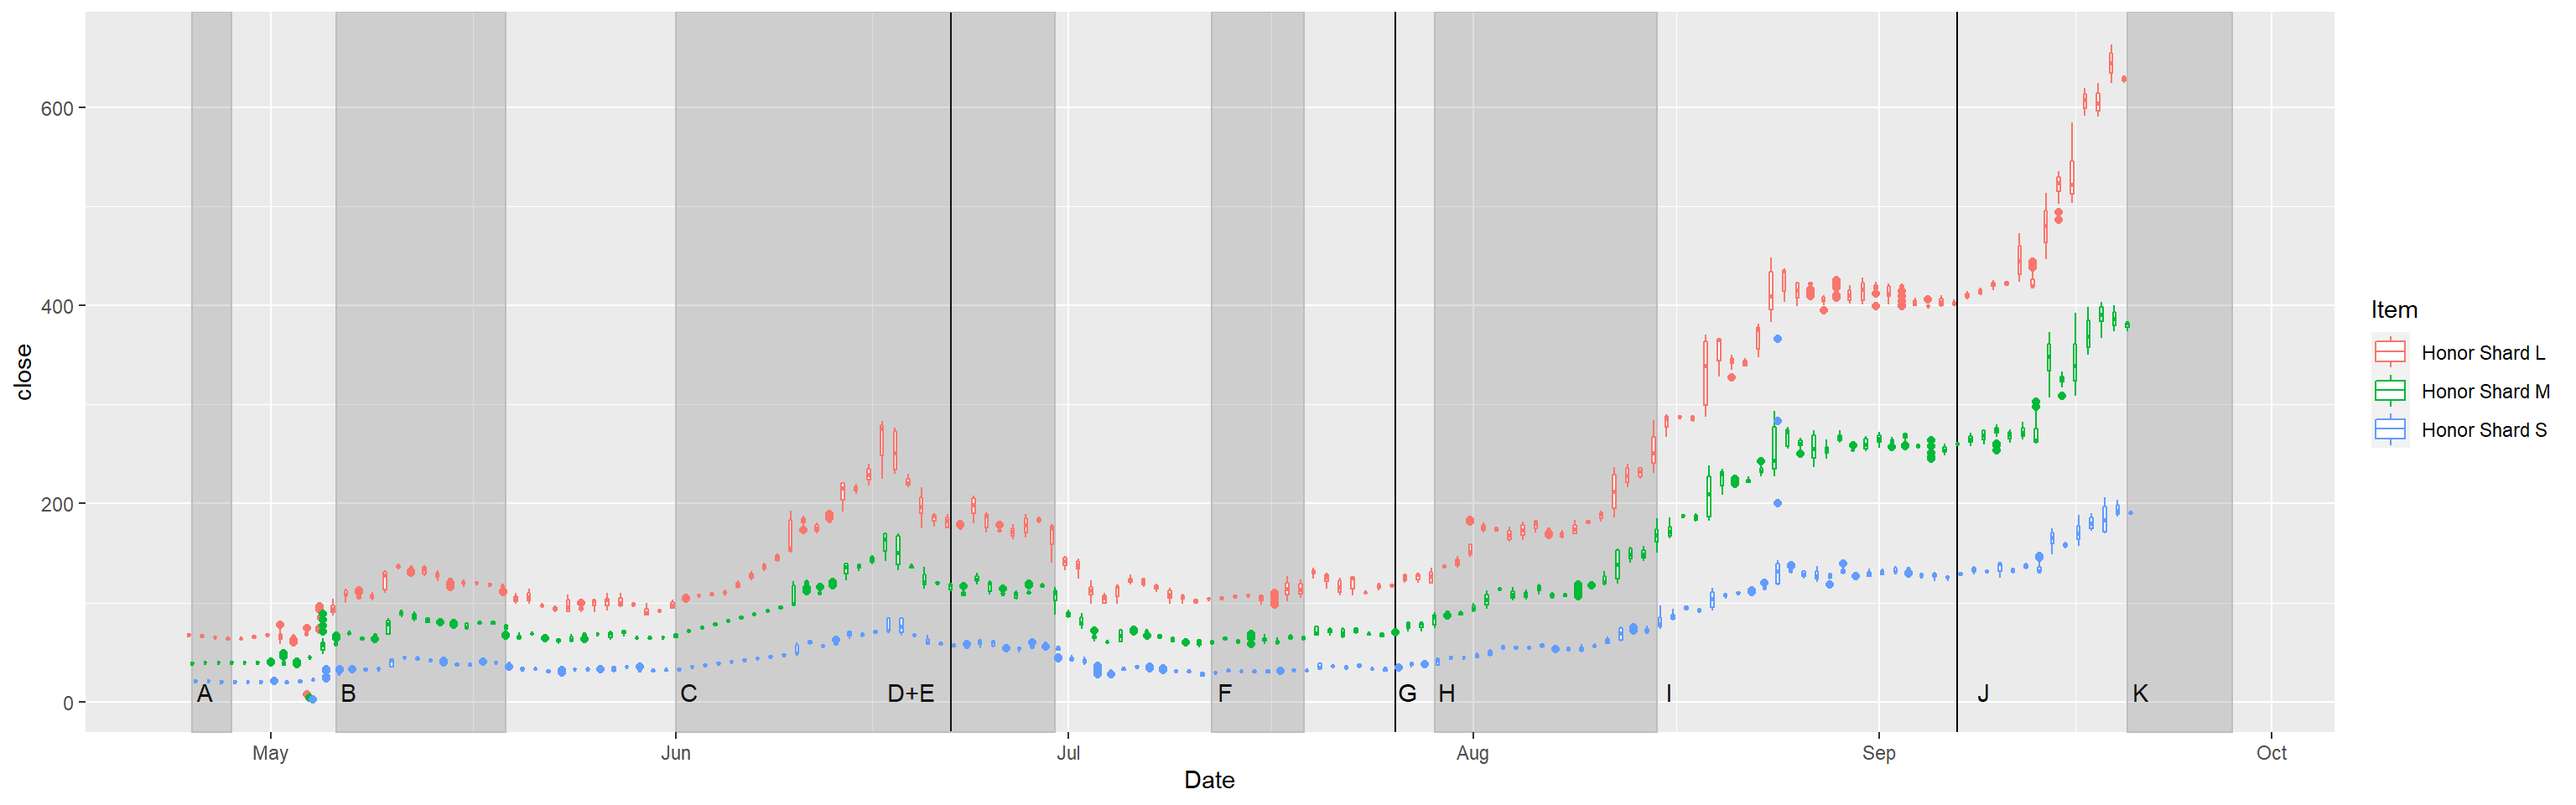
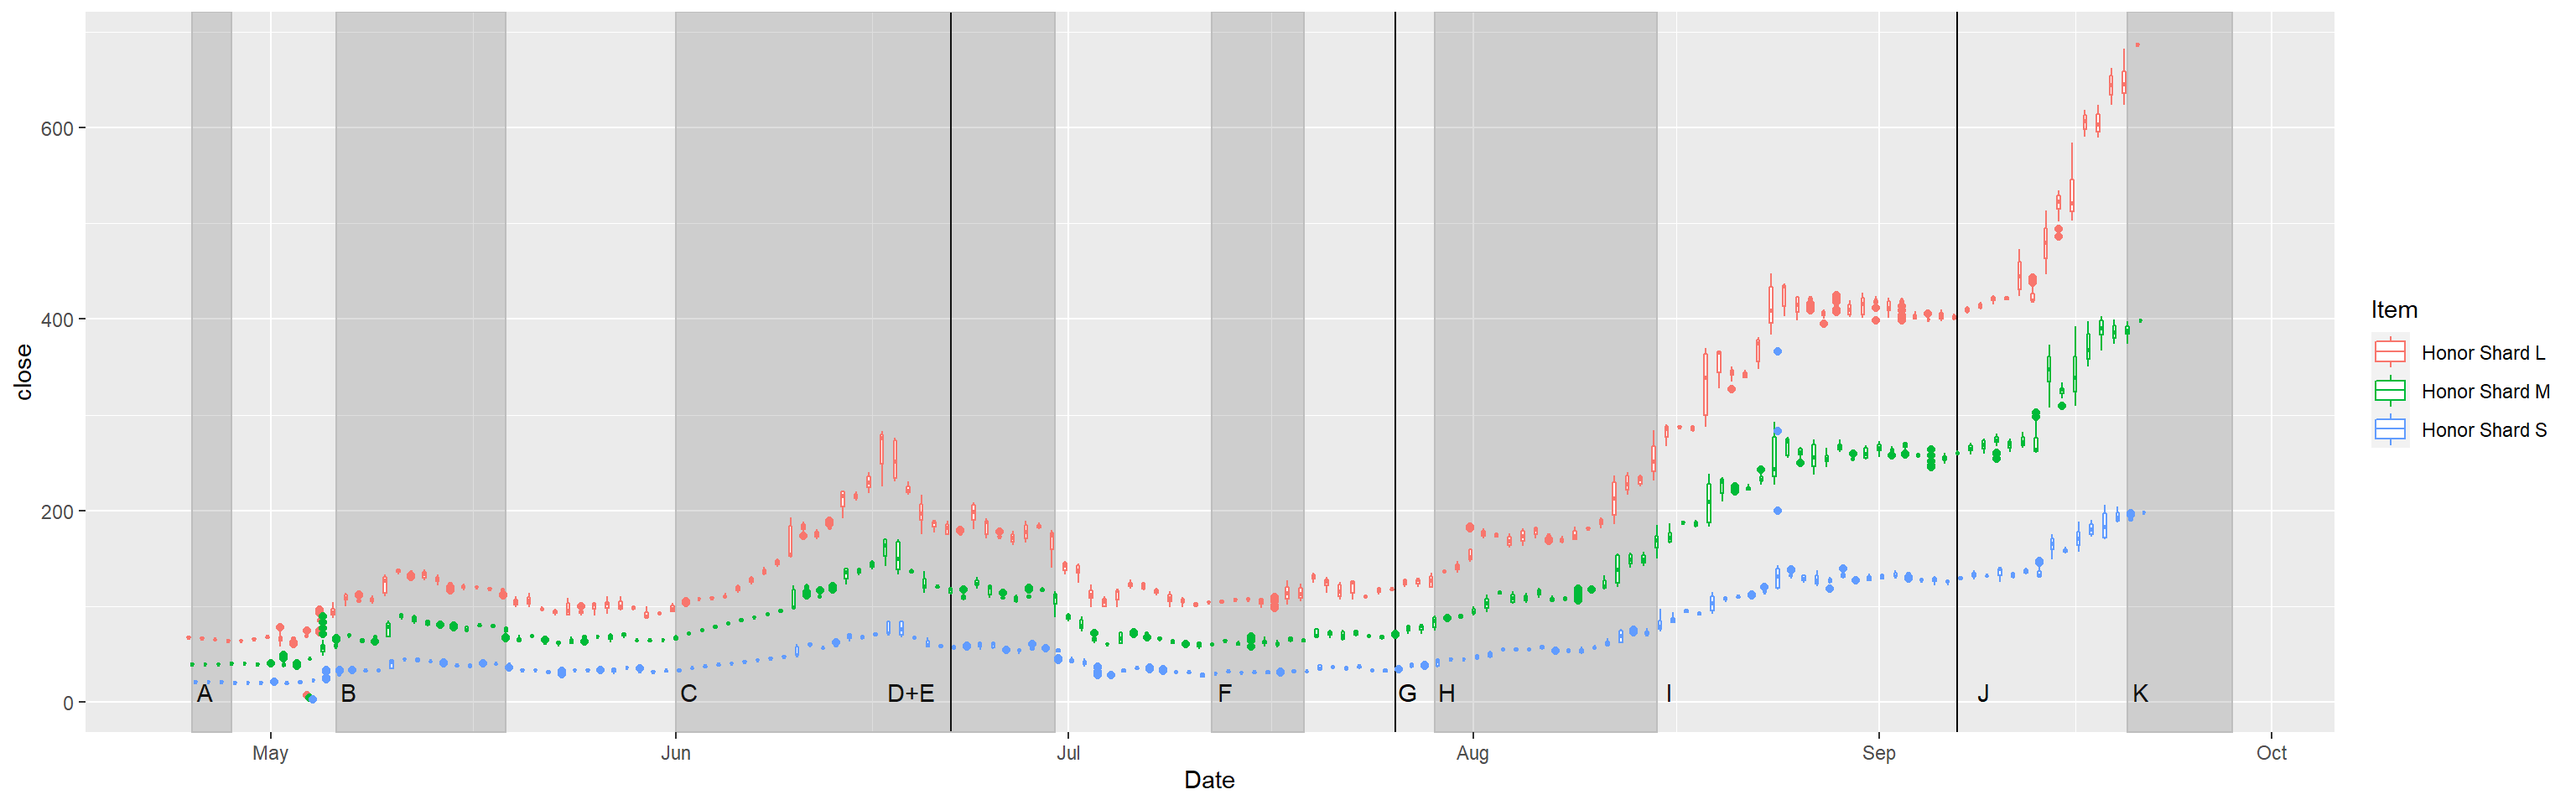
HTML update

diff --git a/index.html b/index.html
@@ -198,7 +198,7 @@ Attaching package: 'dplyr'</code></pre>
 <span id="cb21-4"><a href="#cb21-4" aria-hidden="true" tabindex="-1"></a><span class="fu">attach</span>(LostArkData)</span>
 <span id="cb21-5"><a href="#cb21-5" aria-hidden="true" tabindex="-1"></a><span class="fu">length</span>(LostArkData<span class="sc">$</span>id)</span></code><button title="Copy to Clipboard" class="code-copy-button"><i class="bi"></i></button></pre></div>
 <div class="cell-output cell-output-stdout">
-<pre><code>[1] 32266</code></pre>
+<pre><code>[1] 32486</code></pre>
 </div>
 <div class="sourceCode cell-code" id="cb23"><pre class="sourceCode r code-with-copy"><code class="sourceCode r"><span id="cb23-1"><a href="#cb23-1" aria-hidden="true" tabindex="-1"></a><span class="co">#converting nonsensical time into real dates and replacing the old ones with a real date.</span></span>
 <span id="cb23-2"><a href="#cb23-2" aria-hidden="true" tabindex="-1"></a>Tconvert <span class="ot">&lt;-</span> timestamp<span class="sc">/</span><span class="dv">1000</span></span>
@@ -215,7 +215,7 @@ Attaching package: 'dplyr'</code></pre>
 <span id="cb23-13"><a href="#cb23-13" aria-hidden="true" tabindex="-1"></a><span class="co">#checking new length, looks like we have removed 4 observations.</span></span>
 <span id="cb23-14"><a href="#cb23-14" aria-hidden="true" tabindex="-1"></a><span class="fu">length</span>(LostArkData<span class="sc">$</span>id)</span></code><button title="Copy to Clipboard" class="code-copy-button"><i class="bi"></i></button></pre></div>
 <div class="cell-output cell-output-stdout">
-<pre><code>[1] 32262</code></pre>
+<pre><code>[1] 32482</code></pre>
 </div>
 <div class="sourceCode cell-code" id="cb25"><pre class="sourceCode r code-with-copy"><code class="sourceCode r"><span id="cb25-1"><a href="#cb25-1" aria-hidden="true" tabindex="-1"></a><span class="co">#renaming first 2 columns</span></span>
 <span id="cb25-2"><a href="#cb25-2" aria-hidden="true" tabindex="-1"></a><span class="fu">names</span>(LostArkData)[<span class="dv">1</span>] <span class="ot">&lt;-</span> <span class="st">"Item"</span></span>
@@ -244,14 +244,14 @@ Attaching package: 'dplyr'</code></pre>
    Item                   `mean(open)`
    &lt;chr&gt;                         &lt;dbl&gt;
  1 Basic Oreha                    9.56
- 2 Destruction Stone              9.86
+ 2 Destruction Stone              9.91
  3 Great Honor Leapstones        70.3 
- 4 Guardian Stone                 1.92
- 5 Honor Shard L                203.  
- 6 Honor Shard M                128.  
- 7 Honor Shard S                 63.7 
- 8 Solar Blessing                98.5 
- 9 Solar Grace                   38.0 
+ 4 Guardian Stone                 1.91
+ 5 Honor Shard L                206.  
+ 6 Honor Shard M                130.  
+ 7 Honor Shard S                 64.6 
+ 8 Solar Blessing                98.9 
+ 9 Solar Grace                   38.3 
 10 Solar Protection             192.  </code></pre>
 </div>
 <div class="sourceCode cell-code" id="cb28"><pre class="sourceCode r code-with-copy"><code class="sourceCode r"><span id="cb28-1"><a href="#cb28-1" aria-hidden="true" tabindex="-1"></a>LostArkData <span class="sc">%&gt;%</span> <span class="fu">group_by</span>(Item) <span class="sc">%&gt;%</span> <span class="fu">summarize</span>(<span class="fu">mean</span>(close))</span></code><button title="Copy to Clipboard" class="code-copy-button"><i class="bi"></i></button></pre></div>
@@ -260,14 +260,14 @@ Attaching package: 'dplyr'</code></pre>
    Item                   `mean(close)`
    &lt;chr&gt;                          &lt;dbl&gt;
  1 Basic Oreha                     9.57
- 2 Destruction Stone              11.1 
+ 2 Destruction Stone              11.2 
  3 Great Honor Leapstones         70.3 
- 4 Guardian Stone                  1.92
- 5 Honor Shard L                 203.  
- 6 Honor Shard M                 128.  
- 7 Honor Shard S                  63.8 
+ 4 Guardian Stone                  1.91
+ 5 Honor Shard L                 206.  
+ 6 Honor Shard M                 130.  
+ 7 Honor Shard S                  64.6 
  8 Solar Blessing                103.  
- 9 Solar Grace                    38.0 
+ 9 Solar Grace                    38.3 
 10 Solar Protection              192.  </code></pre>
 </div>
 <div class="sourceCode cell-code" id="cb30"><pre class="sourceCode r code-with-copy"><code class="sourceCode r"><span id="cb30-1"><a href="#cb30-1" aria-hidden="true" tabindex="-1"></a>LostArkData <span class="sc">%&gt;%</span> <span class="fu">group_by</span>(Item) <span class="sc">%&gt;%</span> <span class="fu">summarize</span>(<span class="fu">min</span>(open))</span></code><button title="Copy to Clipboard" class="code-copy-button"><i class="bi"></i></button></pre></div>
@@ -311,7 +311,7 @@ Attaching package: 'dplyr'</code></pre>
  2 Destruction Stone               16
  3 Great Honor Leapstones         169
  4 Guardian Stone                   4
- 5 Honor Shard L                  663
+ 5 Honor Shard L                  687
  6 Honor Shard M                  403
  7 Honor Shard S                  366
  8 Solar Blessing                 208
@@ -327,7 +327,7 @@ Attaching package: 'dplyr'</code></pre>
  2 Destruction Stone              2500
  3 Great Honor Leapstones          169
  4 Guardian Stone                    4
- 5 Honor Shard L                   663
+ 5 Honor Shard L                   687
  6 Honor Shard M                   403
  7 Honor Shard S                   366
  8 Solar Blessing                14899
@@ -339,7 +339,7 @@ Attaching package: 'dplyr'</code></pre>
 <span id="cb38-3"><a href="#cb38-3" aria-hidden="true" tabindex="-1"></a>LostArkData<span class="sc">$</span>id <span class="ot">&lt;-</span> <span class="dv">1</span><span class="sc">:</span><span class="fu">length</span>(LostArkData<span class="sc">$</span>close)</span>
 <span id="cb38-4"><a href="#cb38-4" aria-hidden="true" tabindex="-1"></a><span class="fu">length</span>(LostArkData<span class="sc">$</span>id)</span></code><button title="Copy to Clipboard" class="code-copy-button"><i class="bi"></i></button></pre></div>
 <div class="cell-output cell-output-stdout">
-<pre><code>[1] 32262</code></pre>
+<pre><code>[1] 32482</code></pre>
 </div>
 <div class="sourceCode cell-code" id="cb40"><pre class="sourceCode r code-with-copy"><code class="sourceCode r"><span id="cb40-1"><a href="#cb40-1" aria-hidden="true" tabindex="-1"></a><span class="co">#The problem observations have been found.</span></span>
 <span id="cb40-2"><a href="#cb40-2" aria-hidden="true" tabindex="-1"></a><span class="co">#I would like to look at each group, but that must be done later</span></span>
@@ -351,7 +351,7 @@ Attaching package: 'dplyr'</code></pre>
 <span id="cb40-8"><a href="#cb40-8" aria-hidden="true" tabindex="-1"></a>LostArkData <span class="ot">&lt;-</span> LostArkData[<span class="sc">!</span>(LostArkData<span class="sc">$</span>open <span class="sc">==</span> <span class="fl">1823.00</span> <span class="sc">&amp;</span> LostArkData<span class="sc">$</span>high <span class="sc">==</span> <span class="fl">1823.00</span>),]</span>
 <span id="cb40-9"><a href="#cb40-9" aria-hidden="true" tabindex="-1"></a><span class="fu">length</span>(LostArkData<span class="sc">$</span>id)</span></code><button title="Copy to Clipboard" class="code-copy-button"><i class="bi"></i></button></pre></div>
 <div class="cell-output cell-output-stdout">
-<pre><code>[1] 32258</code></pre>
+<pre><code>[1] 32478</code></pre>
 </div>
 <div class="sourceCode cell-code" id="cb42"><pre class="sourceCode r code-with-copy"><code class="sourceCode r"><span id="cb42-1"><a href="#cb42-1" aria-hidden="true" tabindex="-1"></a>LostArkData <span class="sc">%&gt;%</span> <span class="fu">group_by</span>(Item) <span class="sc">%&gt;%</span> <span class="fu">summarize</span>(<span class="fu">max</span>(open))</span></code><button title="Copy to Clipboard" class="code-copy-button"><i class="bi"></i></button></pre></div>
 <div class="cell-output cell-output-stdout">
@@ -362,7 +362,7 @@ Attaching package: 'dplyr'</code></pre>
  2 Destruction Stone               16
  3 Great Honor Leapstones         169
  4 Guardian Stone                   4
- 5 Honor Shard L                  663
+ 5 Honor Shard L                  687
  6 Honor Shard M                  403
  7 Honor Shard S                  366
  8 Solar Blessing                 208
@@ -378,7 +378,7 @@ Attaching package: 'dplyr'</code></pre>
  2 Destruction Stone                16
  3 Great Honor Leapstones          169
  4 Guardian Stone                    4
- 5 Honor Shard L                   663
+ 5 Honor Shard L                   687
  6 Honor Shard M                   403
  7 Honor Shard S                   366
  8 Solar Blessing                  208
@@ -391,15 +391,15 @@ Attaching package: 'dplyr'</code></pre>
    Item                   `mean(open)`
    &lt;chr&gt;                         &lt;dbl&gt;
  1 Basic Oreha                    9.56
- 2 Destruction Stone              9.86
+ 2 Destruction Stone              9.91
  3 Great Honor Leapstones        70.3 
- 4 Guardian Stone                 1.92
- 5 Honor Shard L                203.  
- 6 Honor Shard M                128.  
- 7 Honor Shard S                 63.7 
- 8 Solar Blessing                98.5 
- 9 Solar Grace                   38.0 
-10 Solar Protection             191.  </code></pre>
+ 4 Guardian Stone                 1.91
+ 5 Honor Shard L                206.  
+ 6 Honor Shard M                130.  
+ 7 Honor Shard S                 64.6 
+ 8 Solar Blessing                98.9 
+ 9 Solar Grace                   38.3 
+10 Solar Protection             192.  </code></pre>
 </div>
 <div class="sourceCode cell-code" id="cb48"><pre class="sourceCode r code-with-copy"><code class="sourceCode r"><span id="cb48-1"><a href="#cb48-1" aria-hidden="true" tabindex="-1"></a>LostArkData <span class="sc">%&gt;%</span> <span class="fu">group_by</span>(Item) <span class="sc">%&gt;%</span> <span class="fu">summarize</span>(<span class="fu">mean</span>(close))</span></code><button title="Copy to Clipboard" class="code-copy-button"><i class="bi"></i></button></pre></div>
 <div class="cell-output cell-output-stdout">
@@ -407,14 +407,14 @@ Attaching package: 'dplyr'</code></pre>
    Item                   `mean(close)`
    &lt;chr&gt;                          &lt;dbl&gt;
  1 Basic Oreha                     9.57
- 2 Destruction Stone               9.86
+ 2 Destruction Stone               9.91
  3 Great Honor Leapstones         70.3 
- 4 Guardian Stone                  1.92
- 5 Honor Shard L                 203.  
- 6 Honor Shard M                 128.  
- 7 Honor Shard S                  63.8 
- 8 Solar Blessing                 98.5 
- 9 Solar Grace                    38.0 
+ 4 Guardian Stone                  1.91
+ 5 Honor Shard L                 206.  
+ 6 Honor Shard M                 130.  
+ 7 Honor Shard S                  64.6 
+ 8 Solar Blessing                 98.9 
+ 9 Solar Grace                    38.3 
 10 Solar Protection              192.  </code></pre>
 </div>
 </div>
@@ -614,15 +614,15 @@ Attaching package: 'dplyr'</code></pre>
 <p>#Themes</p>
 <p>These are the final graphs with the themes applied, the shaded regions and important date explanations are below with the official announcements as well.</p>
 <div class="cell">
-<div class="sourceCode cell-code" id="cb69"><pre class="sourceCode r code-with-copy"><code class="sourceCode r"><span id="cb69-1"><a href="#cb69-1" aria-hidden="true" tabindex="-1"></a>LAGHLGBPF <span class="ot">&lt;-</span> LAGHLGBPF <span class="sc">+</span> <span class="fu">scale_x_date</span>() <span class="sc">+</span> <span class="fu">scale_y_continuous</span>(<span class="at">breaks =</span> <span class="fu">seq</span>(<span class="dv">0</span>,<span class="dv">180</span>,<span class="at">by =</span> <span class="dv">20</span>)) <span class="sc">+</span> <span class="fu">ylab</span>(<span class="st">"Price in gold"</span>) <span class="sc">+</span> <span class="fu">theme_minimal</span>() <span class="sc">+</span> <span class="fu">theme</span>(<span class="at">legend.position =</span> <span class="st">"none"</span>, <span class="at">panel.grid.minor.x =</span> <span class="fu">element_blank</span>(), <span class="at">panel.grid.major.x =</span> <span class="fu">element_blank</span>())</span>
+<div class="sourceCode cell-code" id="cb69"><pre class="sourceCode r code-with-copy"><code class="sourceCode r"><span id="cb69-1"><a href="#cb69-1" aria-hidden="true" tabindex="-1"></a>LAGHLGBPF <span class="ot">&lt;-</span> LAGHLGBPF <span class="sc">+</span> <span class="fu">scale_x_date</span>() <span class="sc">+</span> <span class="fu">scale_y_continuous</span>(<span class="at">breaks =</span> <span class="fu">seq</span>(<span class="dv">0</span>,<span class="dv">180</span>,<span class="at">by =</span> <span class="dv">20</span>)) <span class="sc">+</span> <span class="fu">ylab</span>(<span class="st">"Price in gold"</span>) <span class="sc">+</span> <span class="fu">theme_minimal</span>() <span class="sc">+</span> <span class="fu">theme</span>(<span class="at">legend.position =</span> <span class="st">"none"</span>, <span class="at">panel.grid.minor.x =</span> <span class="fu">element_blank</span>(), <span class="at">panel.grid.major.x =</span> <span class="fu">element_blank</span>()) <span class="sc">+</span> <span class="fu">labs</span>(<span class="at">title =</span> <span class="st">"Great honor leapstone prices by day"</span>)</span>
 <span id="cb69-2"><a href="#cb69-2" aria-hidden="true" tabindex="-1"></a></span>
-<span id="cb69-3"><a href="#cb69-3" aria-hidden="true" tabindex="-1"></a>LADGGBPF <span class="ot">&lt;-</span> LADGGBPF <span class="sc">+</span> <span class="fu">theme_minimal</span>() <span class="sc">+</span> <span class="fu">scale_y_continuous</span>(<span class="at">breaks =</span> <span class="fu">seq</span>(<span class="dv">0</span>,<span class="dv">20</span>,<span class="at">by =</span> <span class="dv">2</span>)) <span class="sc">+</span> <span class="fu">ylab</span>(<span class="st">"Price in gold"</span>) <span class="sc">+</span> <span class="fu">theme_minimal</span>() <span class="sc">+</span> <span class="fu">theme</span>(<span class="at">legend.position =</span> <span class="st">"none"</span>, <span class="at">panel.grid.minor.x =</span> <span class="fu">element_blank</span>(), <span class="at">panel.grid.major.x =</span> <span class="fu">element_blank</span>())</span>
+<span id="cb69-3"><a href="#cb69-3" aria-hidden="true" tabindex="-1"></a>LADGGBPF <span class="ot">&lt;-</span> LADGGBPF <span class="sc">+</span> <span class="fu">theme_minimal</span>() <span class="sc">+</span> <span class="fu">scale_y_continuous</span>(<span class="at">breaks =</span> <span class="fu">seq</span>(<span class="dv">0</span>,<span class="dv">20</span>,<span class="at">by =</span> <span class="dv">2</span>)) <span class="sc">+</span> <span class="fu">ylab</span>(<span class="st">"Price in gold"</span>) <span class="sc">+</span> <span class="fu">theme_minimal</span>() <span class="sc">+</span> <span class="fu">theme</span>(<span class="at">legend.position =</span> <span class="st">"none"</span>, <span class="at">panel.grid.minor.x =</span> <span class="fu">element_blank</span>(), <span class="at">panel.grid.major.x =</span> <span class="fu">element_blank</span>()) <span class="sc">+</span> <span class="fu">labs</span>(<span class="at">title =</span> <span class="st">"Destruction and Guardian stone prices by day"</span>)</span>
 <span id="cb69-4"><a href="#cb69-4" aria-hidden="true" tabindex="-1"></a></span>
-<span id="cb69-5"><a href="#cb69-5" aria-hidden="true" tabindex="-1"></a>LAOrehaDBPF <span class="ot">&lt;-</span> LAOrehaDBPF <span class="sc">+</span> <span class="fu">theme_minimal</span>() <span class="sc">+</span> <span class="fu">scale_y_continuous</span>(<span class="at">breaks =</span> <span class="fu">seq</span>(<span class="dv">8</span>,<span class="dv">16</span>,<span class="at">by =</span> <span class="dv">2</span>)) <span class="sc">+</span> <span class="fu">ylab</span>(<span class="st">"Price in gold"</span>) <span class="sc">+</span> <span class="fu">theme_minimal</span>() <span class="sc">+</span> <span class="fu">theme</span>(<span class="at">legend.position =</span> <span class="st">"none"</span>, <span class="at">panel.grid.minor.x =</span> <span class="fu">element_blank</span>(), <span class="at">panel.grid.major.x =</span> <span class="fu">element_blank</span>())</span>
+<span id="cb69-5"><a href="#cb69-5" aria-hidden="true" tabindex="-1"></a>LAOrehaDBPF <span class="ot">&lt;-</span> LAOrehaDBPF <span class="sc">+</span> <span class="fu">theme_minimal</span>() <span class="sc">+</span> <span class="fu">scale_y_continuous</span>(<span class="at">breaks =</span> <span class="fu">seq</span>(<span class="dv">8</span>,<span class="dv">16</span>,<span class="at">by =</span> <span class="dv">2</span>)) <span class="sc">+</span> <span class="fu">ylab</span>(<span class="st">"Price in gold"</span>) <span class="sc">+</span> <span class="fu">theme_minimal</span>() <span class="sc">+</span> <span class="fu">theme</span>(<span class="at">legend.position =</span> <span class="st">"none"</span>, <span class="at">panel.grid.minor.x =</span> <span class="fu">element_blank</span>(), <span class="at">panel.grid.major.x =</span> <span class="fu">element_blank</span>()) <span class="sc">+</span> <span class="fu">labs</span>(<span class="at">title =</span> <span class="st">"Oreha Material prices by day"</span>)</span>
 <span id="cb69-6"><a href="#cb69-6" aria-hidden="true" tabindex="-1"></a></span>
-<span id="cb69-7"><a href="#cb69-7" aria-hidden="true" tabindex="-1"></a>LARateupGBPF <span class="ot">&lt;-</span> LARateupGBPF <span class="sc">+</span> <span class="fu">theme_minimal</span>() <span class="sc">+</span> <span class="fu">scale_y_continuous</span>(<span class="at">breaks =</span> <span class="fu">seq</span>(<span class="dv">0</span>,<span class="dv">400</span>,<span class="at">by =</span> <span class="dv">20</span>)) <span class="sc">+</span> <span class="fu">ylab</span>(<span class="st">"Price in gold"</span>) <span class="sc">+</span> <span class="fu">theme_minimal</span>() <span class="sc">+</span> <span class="fu">theme</span>(<span class="at">legend.position =</span> <span class="st">"none"</span>, <span class="at">panel.grid.minor.x =</span> <span class="fu">element_blank</span>(), <span class="at">panel.grid.major.x =</span> <span class="fu">element_blank</span>())</span>
+<span id="cb69-7"><a href="#cb69-7" aria-hidden="true" tabindex="-1"></a>LARateupGBPF <span class="ot">&lt;-</span> LARateupGBPF <span class="sc">+</span> <span class="fu">theme_minimal</span>() <span class="sc">+</span> <span class="fu">scale_y_continuous</span>(<span class="at">breaks =</span> <span class="fu">seq</span>(<span class="dv">0</span>,<span class="dv">400</span>,<span class="at">by =</span> <span class="dv">20</span>)) <span class="sc">+</span> <span class="fu">ylab</span>(<span class="st">"Price in gold"</span>) <span class="sc">+</span> <span class="fu">theme_minimal</span>() <span class="sc">+</span> <span class="fu">theme</span>(<span class="at">legend.position =</span> <span class="st">"none"</span>, <span class="at">panel.grid.minor.x =</span> <span class="fu">element_blank</span>(), <span class="at">panel.grid.major.x =</span> <span class="fu">element_blank</span>()) <span class="sc">+</span> <span class="fu">labs</span>(<span class="at">title =</span> <span class="st">"Rate up material prices by day"</span>)</span>
 <span id="cb69-8"><a href="#cb69-8" aria-hidden="true" tabindex="-1"></a></span>
-<span id="cb69-9"><a href="#cb69-9" aria-hidden="true" tabindex="-1"></a>LAShardsGBPF <span class="ot">&lt;-</span> LAShardsGBPF <span class="sc">+</span> <span class="fu">theme_minimal</span>() <span class="sc">+</span> <span class="fu">scale_y_continuous</span>(<span class="at">breaks =</span> <span class="fu">seq</span>(<span class="dv">0</span>,<span class="dv">750</span>,<span class="at">by =</span> <span class="dv">50</span>)) <span class="sc">+</span> <span class="fu">ylab</span>(<span class="st">"Price in gold"</span>) <span class="sc">+</span> <span class="fu">theme_minimal</span>() <span class="sc">+</span> <span class="fu">theme</span>(<span class="at">legend.position =</span> <span class="st">"none"</span>, <span class="at">panel.grid.minor.x =</span> <span class="fu">element_blank</span>(), <span class="at">panel.grid.major.x =</span> <span class="fu">element_blank</span>())</span>
+<span id="cb69-9"><a href="#cb69-9" aria-hidden="true" tabindex="-1"></a>LAShardsGBPF <span class="ot">&lt;-</span> LAShardsGBPF <span class="sc">+</span> <span class="fu">theme_minimal</span>() <span class="sc">+</span> <span class="fu">scale_y_continuous</span>(<span class="at">breaks =</span> <span class="fu">seq</span>(<span class="dv">0</span>,<span class="dv">750</span>,<span class="at">by =</span> <span class="dv">50</span>)) <span class="sc">+</span> <span class="fu">ylab</span>(<span class="st">"Price in gold"</span>) <span class="sc">+</span> <span class="fu">theme_minimal</span>() <span class="sc">+</span> <span class="fu">theme</span>(<span class="at">legend.position =</span> <span class="st">"none"</span>, <span class="at">panel.grid.minor.x =</span> <span class="fu">element_blank</span>(), <span class="at">panel.grid.major.x =</span> <span class="fu">element_blank</span>()) <span class="sc">+</span> <span class="fu">labs</span>(<span class="at">title =</span> <span class="st">"Honor Shard pouch prices by day"</span>)</span>
 <span id="cb69-10"><a href="#cb69-10" aria-hidden="true" tabindex="-1"></a></span>
 <span id="cb69-11"><a href="#cb69-11" aria-hidden="true" tabindex="-1"></a>LAGHLGBPF</span></code><button title="Copy to Clipboard" class="code-copy-button"><i class="bi"></i></button></pre></div>
 <div class="cell-output-display">
